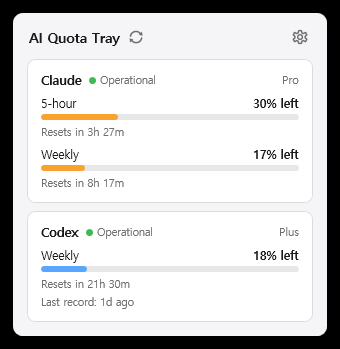
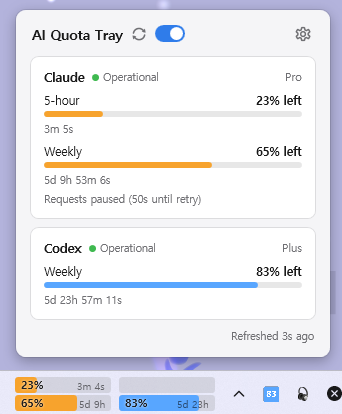
설정에서 동작 항목을 도구 바로 아래로 옮긴다

diff --git a/src/AiUsageTray/Views/SettingsWindow.xaml b/src/AiUsageTray/Views/SettingsWindow.xaml
@@ -818,6 +818,31 @@
                 </StackPanel>
             </Border>
 
+            <!-- 동작 -->
+            <TextBlock x:Name="LblSectionBehavior" Style="{StaticResource SectionLabel}"/>
+            <Border Style="{StaticResource Card}">
+                <StackPanel>
+
+                    <StackPanel Margin="0,11,0,11">
+                        <TextBlock x:Name="LblInterval" Style="{StaticResource RowTitle}"/>
+                        <TextBlock x:Name="LblIntervalHint" Style="{StaticResource RowHint}"/>
+                        <Border Style="{StaticResource SegmentGroup}"
+                                HorizontalAlignment="Stretch" Margin="0,9,0,0">
+                            <UniformGrid x:Name="IntervalGroup" Rows="1"/>
+                        </Border>
+                    </StackPanel>
+
+                    <Border Style="{StaticResource RowDivider}"/>
+
+                    <Grid Margin="0,7,0,7">
+                        <TextBlock x:Name="LblStartup" Style="{StaticResource RowTitle}"/>
+                        <CheckBox x:Name="StartWithWindows" Style="{StaticResource Switch}"
+                                  Checked="OnSettingChanged" Unchecked="OnSettingChanged"/>
+                    </Grid>
+
+                </StackPanel>
+            </Border>
+
             <!-- 표시 -->
             <TextBlock x:Name="LblSectionDisplay" Style="{StaticResource SectionLabel}"/>
             <Border Style="{StaticResource Card}">
@@ -1027,30 +1052,6 @@
                 </StackPanel>
             </Border>
 
-            <!-- 동작 -->
-            <TextBlock x:Name="LblSectionBehavior" Style="{StaticResource SectionLabel}"/>
-            <Border Style="{StaticResource Card}">
-                <StackPanel>
-
-                    <StackPanel Margin="0,11,0,11">
-                        <TextBlock x:Name="LblInterval" Style="{StaticResource RowTitle}"/>
-                        <TextBlock x:Name="LblIntervalHint" Style="{StaticResource RowHint}"/>
-                        <Border Style="{StaticResource SegmentGroup}"
-                                HorizontalAlignment="Stretch" Margin="0,9,0,0">
-                            <UniformGrid x:Name="IntervalGroup" Rows="1"/>
-                        </Border>
-                    </StackPanel>
-
-                    <Border Style="{StaticResource RowDivider}"/>
-
-                    <Grid Margin="0,7,0,7">
-                        <TextBlock x:Name="LblStartup" Style="{StaticResource RowTitle}"/>
-                        <CheckBox x:Name="StartWithWindows" Style="{StaticResource Switch}"
-                                  Checked="OnSettingChanged" Unchecked="OnSettingChanged"/>
-                    </Grid>
-
-                </StackPanel>
-            </Border>
 
             <!-- 시스템 -->
             <TextBlock x:Name="LblSectionSystem" Style="{StaticResource SectionLabel}"/>

diff --git a/README.md b/README.md
@@ -13,10 +13,6 @@ when they reset.
   <img src="docs/images/popup.png" alt="Popup showing Claude and Codex quota" width="340">
 </p>
 
-<p align="center">
-  <img src="docs/images/widgetbar.png" alt="Widget bar next to the notification area" width="600">
-</p>
-
 ## Download
 
 **[`AI-Quota-Tray.exe`](https://github.com/1000Pro-1997/AI-Quota-Tray/releases/latest/download/AI-Quota-Tray.exe)** — about 2 MB.
@@ -62,6 +58,12 @@ blue for Codex, both changeable.
 
 **No API key needed.** If you are signed in to either CLI, the app finds it.
 
+Claude also reports your limits to its own status line every time you use it. The
+app picks those up as a second source, so numbers can stay fresh even when the
+usage endpoint is unreachable. To receive them it registers a small helper script
+as Claude Code's `statusLine` in `~/.claude/settings.json` — **only if you have not
+set one yourself.** An existing status line is never overwritten.
+
 ### How tokens are handled
 
 The Claude credentials file is **read, never written**. Access tokens expire after
@@ -90,6 +92,10 @@ Usage lookups are read-only, so **they do not consume any of your quota**.
 A colored square with a number — orange for Claude, blue for Codex. The number
 follows your display setting (remaining by default).
 
+<p align="center">
+  <img src="docs/images/tray-icon.png" alt="Tray icon showing remaining quota as a colored number" width="260">
+</p>
+
 With both tools enabled it alternates every 4 seconds. With one, it stays put.
 
 Windows draws tray icons in a fixed 16×16 square, so it cannot be made wider.
@@ -98,6 +104,10 @@ Use the widget bar below for more room.
 ### Widget bar
 
 An overlay that sits next to the notification area, one row per limit:
+
+<p align="center">
+  <img src="docs/images/widgetbar.png" alt="Widget bar next to the notification area" width="600">
+</p>
 
 ```
 [====38%====     3h 39m ]   <- Claude 5-hour (orange)
@@ -113,6 +123,38 @@ Click the bar to open the popup. Hover to see which tool and which limit.
 
 Remaining time recalculates every 30 seconds, independent of the refresh interval.
 
+#### Fitting it to your taskbar
+
+The bar sizes itself to its contents by default. Turn auto-size off to set width
+and height by hand, and switch the layout so the two tools stack vertically instead
+of sitting side by side.
+
+<p align="center">
+  <img src="docs/images/widget-settings.png" alt="Widget settings: size, layout, monitor, and offset" width="440">
+</p>
+
+Percentages and reset times can each be hidden — leaving just the bars — and both
+have their own font size. On a multi-monitor setup, **Widget monitor** picks which
+display hosts the bar; the app places it next to that monitor's notification area.
+If your taskbar layout is unusual, turn **Automatic position** off and nudge the bar
+with the Left and Up offsets.
+
+**Hide on full screen** is on by default: the bar gets out of the way when a game or
+video goes full screen on the monitor it sits on, and comes back when you exit.
+
+#### Colors
+
+Orange for Claude, blue for Codex — click the color chip next to either tool in
+Settings to change it. Twelve presets cover most cases; **Custom** opens the Windows
+color picker for anything else, and **Reset** puts the original color back.
+
+<p align="center">
+  <img src="docs/images/color-picker.png" alt="Color picker with twelve presets" width="300">
+</p>
+
+The presets avoid very light shades on purpose, since the percentage is drawn in
+white on top of the filled bar.
+
 ### Popup
 
 Click the tray icon or the widget bar. Shows every limit in detail, along with each
@@ -122,11 +164,25 @@ Click again to close, or click anywhere else. Refresh sits next to the title,
 Settings is the gear at the top right. Quit lives in the tray icon's right-click
 menu.
 
-## Settings
+## Time display
+
+Every limit can show either **how long is left** (`3h 39m`) or **when it resets**
+(`at 6:40 PM`). Session and weekly limits are set separately, so you can count down
+the 5-hour window while reading the weekly one as a date.
 
 <p align="center">
-  <img src="docs/images/settings.png" alt="Settings window" width="440">
+  <img src="docs/images/display-settings.png" alt="Display settings: language, time display, and number format" width="440">
 </p>
+
+The format itself is a template you can edit — `dd"d" hh"h" mm"m" ss"s"` spells out
+which units appear and how they are labelled. The two numbers beside it cap how many
+units actually show: **Widget** for the bar, **Overlay** for the popup, so the bar
+can stay terse (`2d 4h`) while the popup spells it out (`2d 4h 30m 15s`).
+
+Showing seconds makes the display tick every second; otherwise it updates once a
+minute. The countdown is recalculated locally, so it keeps moving between refreshes.
+
+## Settings
 
 Changes apply the moment you make them — there is no Save button. **AllReset**
 returns everything to defaults.
